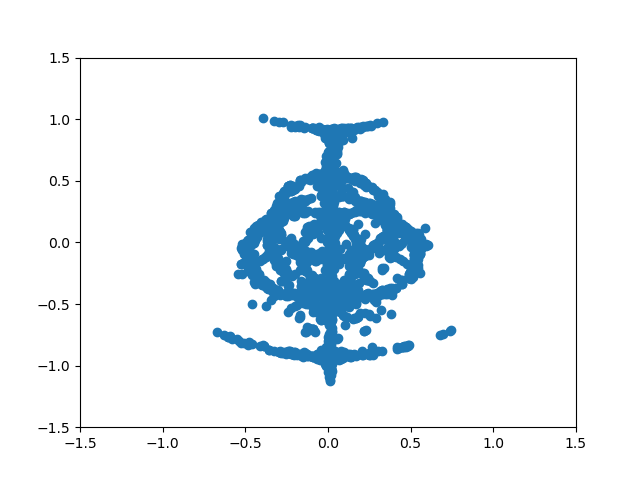
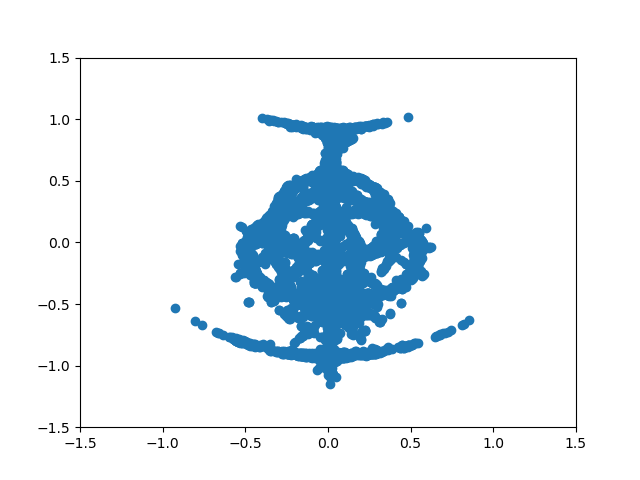
generic commit

diff --git a/scripts/transport/fit_kernel.py b/scripts/transport/fit_kernel.py
@@ -138,7 +138,7 @@ def dict_to_np(dict):
 
 
 def unif_boost_exp(Y_gen, X_gen = None, exp_name= 'exp', diff_map = unif_diffs,  N = 500, n_bins = 30,
-                   plt_range = None, t_iter = 401, diff_quantiles = [0.0, 0.3], vmax = None):
+                   plt_range = None, t_iter = 401, diff_quantiles = [0.0, 0.4], vmax = None):
     save_dir = f'../../data/kernel_transport/{exp_name}'
 
     try:
@@ -207,7 +207,7 @@ def unif_boost_exp(Y_gen, X_gen = None, exp_name= 'exp', diff_map = unif_diffs, 
     r_fit_params = {'name': 'radial', 'l': l / 7 , 'sigma': 1}
     r_mmd_params = {'name': 'radial', 'l': l / 7, 'sigma': 1}
     regression_params = {'Y': Y.T, 'Y_unif': Y_unif.T, 'fit_kernel_params': r_fit_params, 'one_lambda': 5,
-                         'reg_lambda': 1e-7,'mmd_kernel_params': r_mmd_params, 'print_freq': np.infty,
+                         'reg_lambda': 1e-5,'mmd_kernel_params': r_mmd_params, 'print_freq': np.infty,
                          'alpha': alpha, 'learning_rate': .01, 'nugget': 1e-3, 'W_inf': Y_res['W_rank']}
 
     regression_kernel =  RegressionKernel(regression_params)
@@ -233,7 +233,7 @@ def unif_boost_exp(Y_gen, X_gen = None, exp_name= 'exp', diff_map = unif_diffs, 
 
 
 def elden_exp():
-    N = 3000
+    N = 10000
     plt_range = [[-1.5, 1.5], [-1.5, 1.5]]
     vmax = 5
     Y_gen = sample_elden_ring

diff --git a/scripts/transport/unif_transport.py b/scripts/transport/unif_transport.py
@@ -176,8 +176,9 @@ class UnifKernel(nn.Module):
         self.thetas = torch.tensor(self.diff_map(self.Y)[1])
 
         a,b = self.params['diff_quantiles']
-        self.a_qval = torch.quantile(self.W[self.W > 0], q = a)
-        self.b_qval = torch.quantile(self.W, q = b)
+        W_s = self.W[:3300, :3300]
+        self.a_qval = torch.quantile(W_s[ W_s > 0], q = a)
+        self.b_qval = torch.quantile(W_s, q = b)
         self.W_rank = W_inf_range(self.W, self.a_qval, self.b_qval)
         self.N = len(self.W)
 

diff --git a/scripts/transport/transport_kernel.py b/scripts/transport/transport_kernel.py
@@ -14,7 +14,7 @@ def clear_plt():
     return True
 
 def l_scale(X):
-    return torch.quantile(k_matrix(X,X), q = .25)
+    return torch.quantile(k_matrix(X[:3300],X[:3300]), q = .25)
 
 
 def k_matrix(X,X_tilde):
